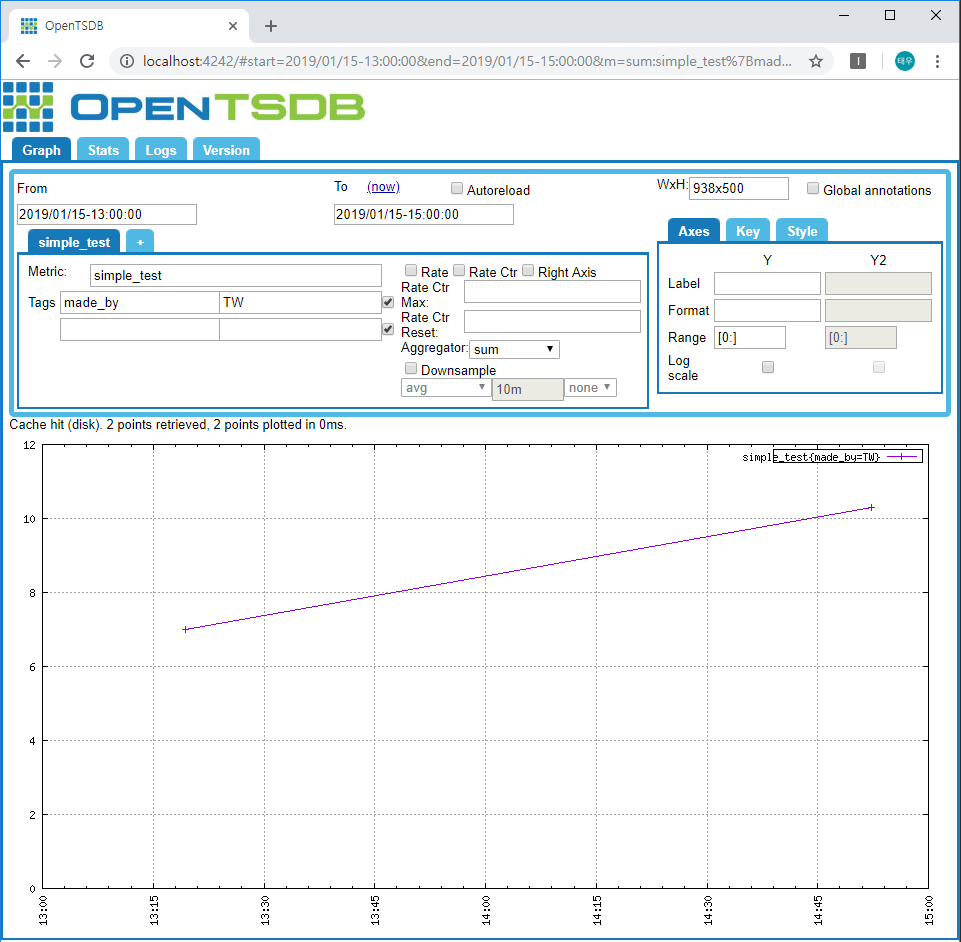
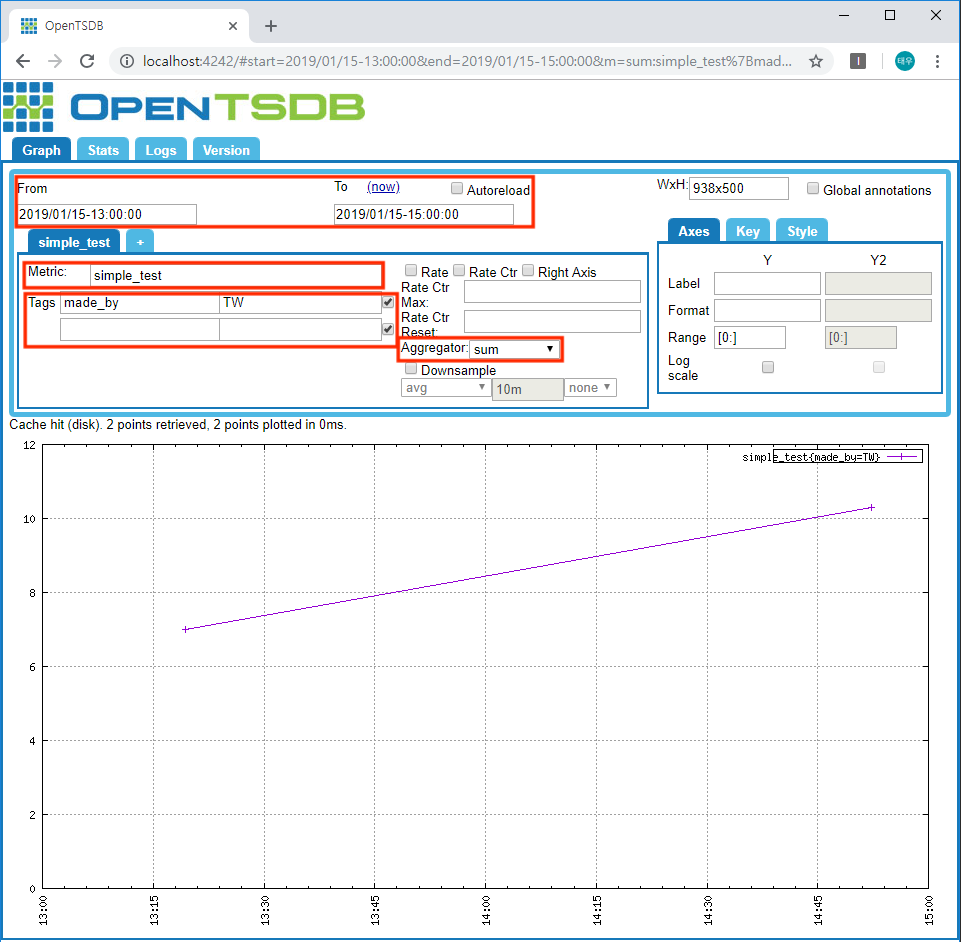
edit post

Changed region(s): [[0.0, 0.2771, 0.5931, 0.4002], [0.0, 0.1847, 0.5619, 0.2463]]

diff --git a/posts/_posts/2019-01-15-simple_opentsdb_test-posts.md b/posts/_posts/2019-01-15-simple_opentsdb_test-posts.md
@@ -129,5 +129,39 @@ if __name__ == '__main__':
 워낙 OpenTSDB web UI가 잘 구성되어 있어서 각각의 input란에 어떠한 사항을 입력해야 하는지는 직관적으로 알 수 도 있을 것이다. 그래도 위의 [ Writing Data ] 예제 코드에서 입력한 데이터를 이용해서 간단히 설명을 해보려고 한다.
 <br/><br/>
 
-일단 위의 [ Writing Data ] 예제 코드에서 입력했던 두개의 
+일단 위의 [ Writing Data ] 예제 코드에서 입력했던 두개의 dp(data point) 정보를 다시 한 번 확인해보면 아래의 사진과 같다. 참고로 timestamp 값인 '1547525964'와 '1547531538'은 각각 한국 표준시(KST)를 기준으로 '2019-01-15 13:19:24'와 '2019-01-15 14:52:18'이 된다.
 
+![build.sh success](../../assets/img/post/simple_opentsdb_test_put_result2.png)
+
+#### 예제-1
+
+위의 두 데이터를 하나의 그래프로 확인하려면 아래의 사진처럼 input란에 입력을 해주면 된다. From과 To란에는 각각 쿼리하려는 데이터의 시작 시간과 끝 시간을 적어주면 된다. 참고로, OpenTSDB에서 쿼리할 때는 시작과 끝 순간을 모두 포함한다(From 이상 ~ To 이하 시간의 모든 데이터).
+<br/><br/>
+
+그리고 쿼리하려는 Metric 이름과 Tag 정보를 입력해준다. [ Writing Data ] 예제 코드에서 입력한 데이터에서 알 수 있는 것처럼 Metric 이름과 Tags 정보중 'made_by' 키에 대한 값이 같다. 따라서 두 가지 데이터를 한번에 쿼리하려면 아래와 같이 공통된 tag 정보만 입력해주면 된다. 마지막으로 두 데이터 포인터를 하나의 그래프로서 보고싶다면 Aggregator를 sum으로 지정해주면 된다.
+<br/><br/>
+
+~~이후에 쿼리에 대한 내용에 대하여 다룰 때 더 자세히 다루겠지만, sum이라는 Aggregator를 설정하게 되면 단순히 하나의 그래프로 묶어서 보여주는 것이 아니라 같은 timestamp에 해당하는 값이 있을 때 두 값을 더해서 나타내준다. 지금은 완전히 이해 못하더라도 좋으니, 그냥 그렇더라 하고 넘어가는 것도 좋다.~~ 
+
+![build.sh success](../../assets/img/post/simple_opentsdb_test_webui_query_1_1.png)
+
+#### 예제-2
+
+위의 예제-1 그래프와 다른 점은 다 같지만 Aggregator를 none으로 설정해주면 구체적으로 Tag 정보를 지정하지 않았더라도 쿼리 조건에 해당하는 데이터들을 구체적인 Tag 정보에 따라 각각 나타내 준다. 아래의 사진을 보면 위의 예제-1과는 달리 하나의 이어진 그래프가 아니라 각각 다른 색깔인 하나의 점으로 나타난 것을 확인할 수 있다.
+
+![build.sh success](../../assets/img/post/simple_opentsdb_test_webui_query_1.png)
+
+#### 예제-3
+
+이제 구체적인 Tag 정보를 모두 입력하여 각각 하나의 데이터 포인트씩 확인해보려고 한다. 이때 추가적으로 Range 범위를 '[0:]에서 [:]으로' 변경했는데, 이는 단순히 시각적으로 보기 편하게 하기 위함이다. 만약 기존과 똑같이 [0:]으로 두었다면 점이 맨 위의 선에 찍히게 되어 식별하기 어렵기 때문이다.
+<br/><br/>
+
+구체적인 Tag정보인 'content'키에 대한 값을 'data_A'로 입력하여 쿼리해주면 아래와 같다.
+
+![build.sh success](../../assets/img/post/simple_opentsdb_test_webui_query_2.png)
+
+<br/>
+
+마찬가지로 이번엔 구체적인 Tag정보인 'content'키에 대한 값을 'data_B'로 입력하여 쿼리해주면 아래와 같다.
+
+![build.sh success](../../assets/img/post/simple_opentsdb_test_webui_query_3.png)
